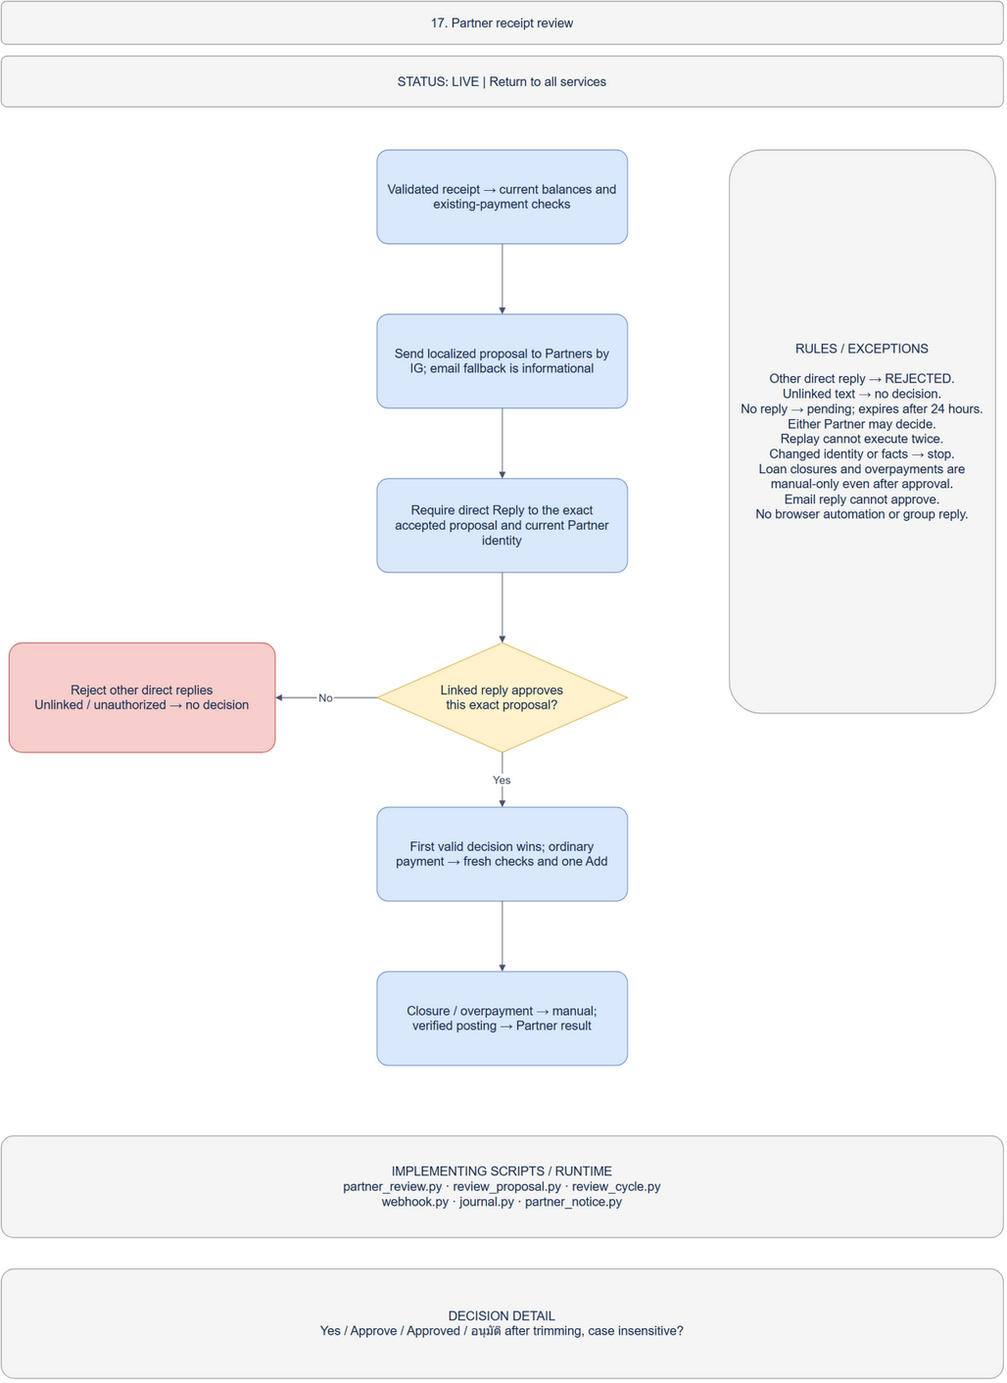
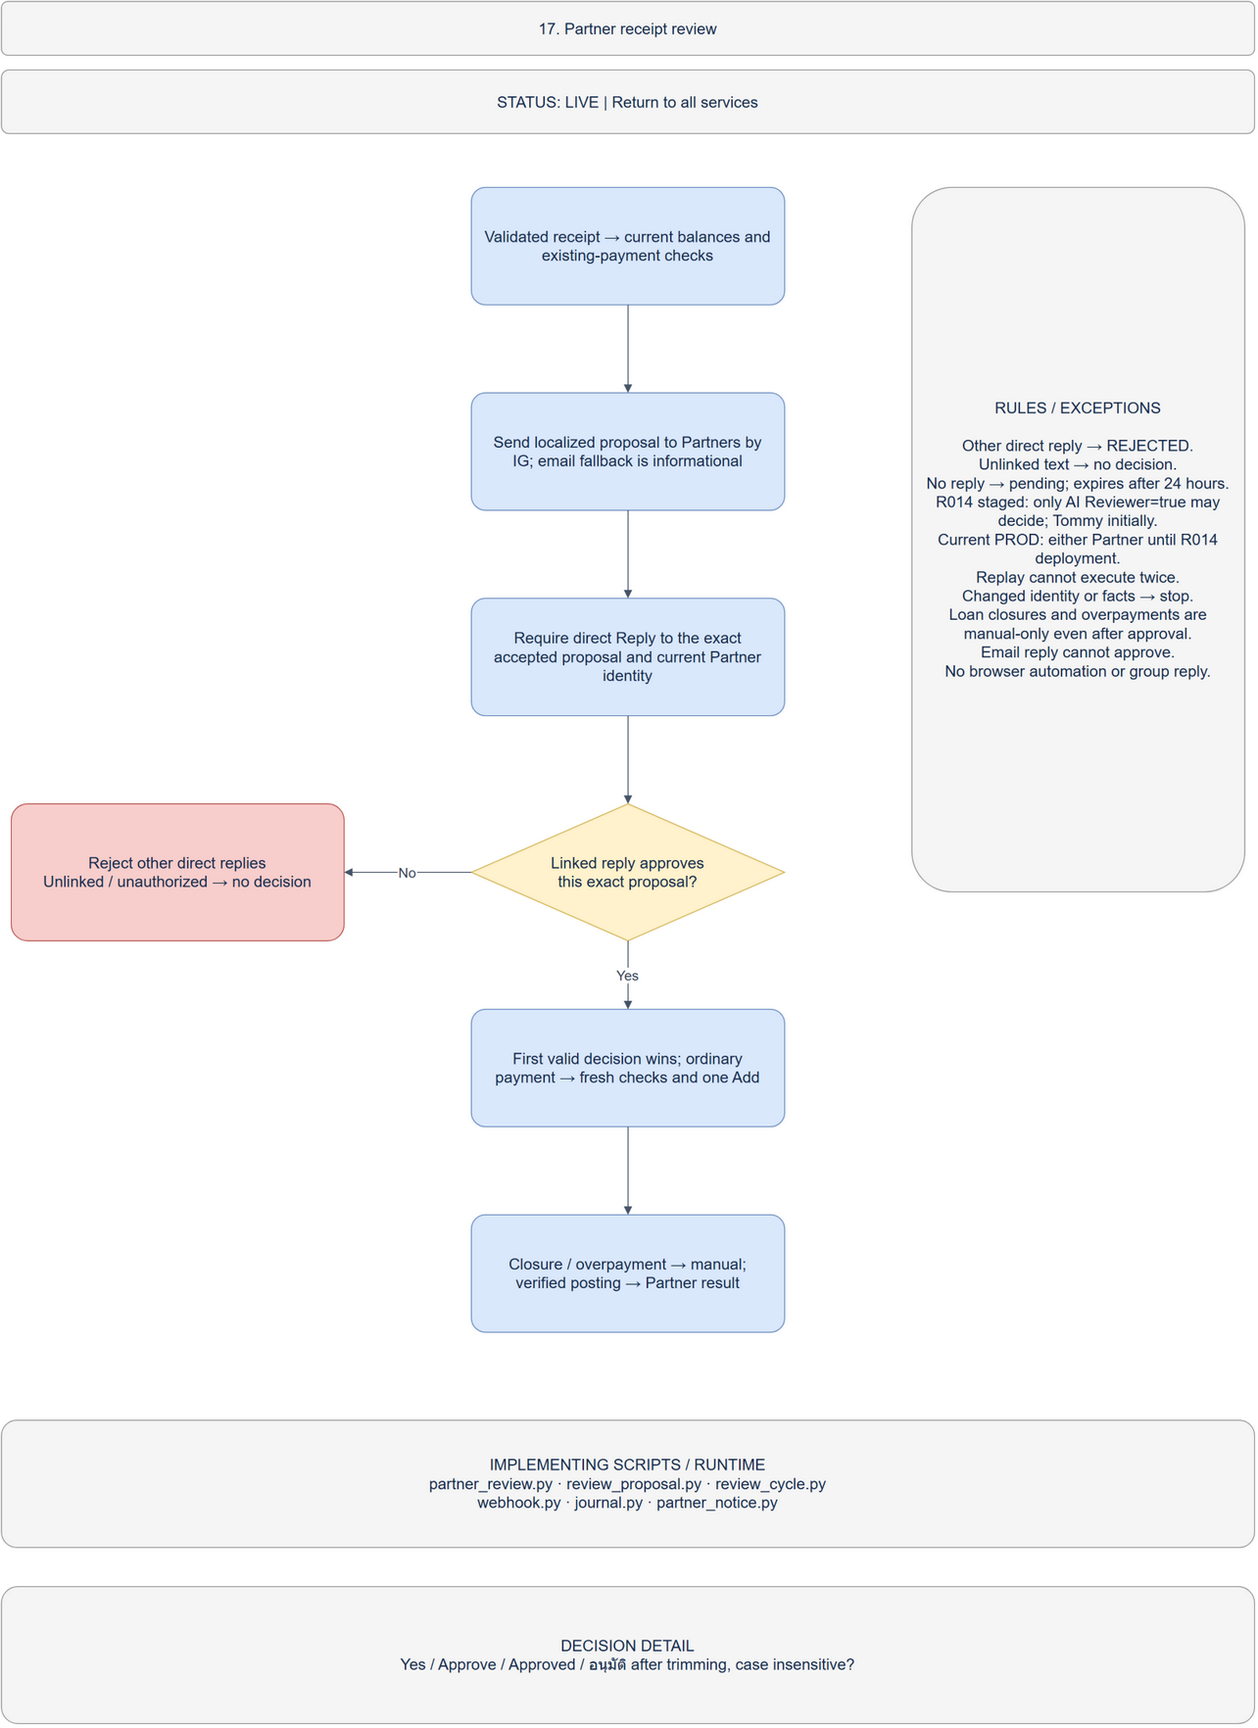
R014 separate AI reviewer authority from Partner notifications

diff --git a/src/mw_integration_agent/review_cycle.py b/src/mw_integration_agent/review_cycle.py
@@ -14,6 +14,11 @@ from .review_execution import add_payment,readback
 from .cash_statement import read_query
 
 
+def reviewer_partners(live):
+    """Role selection is independent of notification/IG delivery preferences."""
+    return [p for p in live['partners'] if p['id'] in live.get('reviewer_ids',[])]
+
+
 def cycle(config,journal,identity_reader):
     root=Path(config['state_directory']);db=journal.db;reviews=ReviewStore(db)
     notices=NoticeJournal(root/'partner-notices.db')
@@ -28,8 +33,12 @@ def cycle(config,journal,identity_reader):
                 if b['id']!=result['borrower']['id']:raise ReceiptInvalid('BORROWER_CHANGED')
                 check(config,result['receipt'],b)
                 proposal=plan(result['receipt'],b,facts(config,b['id']))
+                recipients=reviewer_partners(live)
+                if not recipients:
+                    journal.mark(job['id'],'VALIDATED','NO_AI_REVIEWER')
+                    continue
                 key=reviews.reserve(job['id'],proposal)
-                for p in live['partners']:
+                for p in recipients:
                     subject,body=request_text(proposal,p['language'])
                     if job['detail']=='OWNER_REQUESTED_RECONSIDERATION':
                         body=('คำขอแก้ไข — ใช้แทนคำขอเดิม\n' if p['language']=='ไทย' else 'Corrected request — replaces the earlier request\n')+body
@@ -54,12 +63,16 @@ def cycle(config,journal,identity_reader):
             live=masters(config)
             try:identity=identity_reader(config,event['sender_id'])
             except ConfigurationError:continue
-            reviews.decide(event,dict(notice),live['partners'],identity)
+            reviews.decide(event,dict(notice),live['partners'],identity,reviewer_ids=live.get('reviewer_ids',[]))
         for review in db.execute("SELECT * FROM partner_reviews WHERE state IN ('APPROVED','POSTING','UNKNOWN')").fetchall():
             proposal=json.loads(review['proposal']);key='igr:'+review['id'][:48]
             if review['state'] in ('POSTING','UNKNOWN'):
                 if readback(config,key,proposal):
                     with db:db.execute("UPDATE partner_reviews SET state='POSTED',payment_id=? WHERE id=?",(key,review['id']))
+                continue
+            live=masters(config)
+            if review['deciding_partner'] not in live.get('reviewer_ids',[]):
+                with db:db.execute("UPDATE partner_reviews SET state='STALE',detail='APPROVING_REVIEWER_REMOVED' WHERE id=?",(review['id'],))
                 continue
             if proposal['action']!='Lump Sum':
                 with db:db.execute("UPDATE partner_reviews SET state='MANUAL_REQUIRED' WHERE id=?",(review['id'],))
@@ -67,7 +80,7 @@ def cycle(config,journal,identity_reader):
             if config.get('partner_review_execution_enabled') is not True:continue
             live=masters(config)
             try:
-                matches=[p for p in live['partners'] if p['id']==review['deciding_partner'] and p['enabled'] is True]
+                matches=[p for p in reviewer_partners(live) if p['id']==review['deciding_partner'] and p['enabled'] is True]
                 if len(matches)!=1:raise ReceiptInvalid('APPROVING_PARTNER_CHANGED')
                 sent=notices.db.execute("SELECT partner FROM partner_notices WHERE event_key=? AND partner_id=? AND ig_status='ACCEPTED'",('review:'+review['id'],review['deciding_partner'])).fetchone()
                 if not sent or json.loads(sent[0])!=matches[0]:raise ReceiptInvalid('APPROVING_PARTNER_CHANGED')
@@ -107,7 +120,11 @@ def cycle(config,journal,identity_reader):
                 notices.reserve('review-result:'+review['id']+':'+review['state'],p,subject,body)
         for notice in notices.due():
             if not notice['event_key'].startswith(('review:','review-result:')):continue
+            live=masters(config)
             if notice['event_key'].startswith('review:'):
+                if notice['partner_id'] not in live.get('reviewer_ids',[]):
+                    with notices.db:notices.db.execute("UPDATE partner_notices SET ig_status='REVIEW',detail='NOT_AI_REVIEWER' WHERE id=?",(notice['id'],))
+                    continue
                 row=db.execute('SELECT * FROM partner_reviews WHERE id=?',(notice['event_key'][7:],)).fetchone()
                 if not row or row['state']!='PENDING':
                     with notices.db:notices.db.execute("UPDATE partner_notices SET ig_status='REVIEW' WHERE id=?",(notice['id'],))
@@ -119,6 +136,6 @@ def cycle(config,journal,identity_reader):
                 except ReceiptInvalid as exc:
                     with db:db.execute("UPDATE partner_reviews SET state='STALE',detail=? WHERE id=?",(str(exc),row['id']))
                     continue
-            notices.dispatch(notice,config,masters(config)['partners'])
+            notices.dispatch(notice,config,live['partners'])
         return {'reviews':[dict(r) for r in db.execute('SELECT state,count(*) count FROM partner_reviews GROUP BY state')]}
     finally:notices.close()

diff --git a/tests/test_review_cycle.py b/tests/test_review_cycle.py
@@ -25,11 +25,11 @@ class CycleTests(unittest.TestCase):
         notices=NoticeJournal(self.root/'partner-notices.db');n=notices.reserve('review:'+self.key,self.p,'subject','body')
         notices.db.execute("UPDATE partner_notices SET ig_status='ACCEPTED',message_id='sent',recipient_id='456' WHERE id=?",(n,));notices.db.commit();notices.close()
         self.patches=[]
-        for target,kwargs in [('masters',{'return_value':{'partners':[self.p],'borrowers':[self.b],'accounts':[{'id':'a','active':True}]}}),
+        for target,kwargs in [('masters',{'return_value':{'partners':[self.p],'reviewer_ids':['p'],'borrowers':[self.b],'accounts':[{'id':'a','active':True}]}}),
               ('check',{}),('facts',{'return_value':{}}),('plan',{'return_value':self.proposal}),('read_query',{'return_value':['actor@example.invalid']}),
               ('add_payment',{}),('readback',{'return_value':True})]:
             p=patch('mw_integration_agent.review_cycle.'+target,**kwargs);setattr(self,target,p.start());self.addCleanup(p.stop)
-        p=patch('mw_integration_agent.partner_notice.NoticeJournal.dispatch');p.start();self.addCleanup(p.stop)
+        p=patch('mw_integration_agent.partner_notice.NoticeJournal.dispatch');self.dispatch=p.start();self.addCleanup(p.stop)
     def run_cycle(self):return cycle(self.config,self.j,lambda *_:{'id':'123','username':'borrower'})
     def test_approved_posts_once_then_result(self):
         self.run_cycle();self.run_cycle();self.assertEqual(self.add_payment.call_count,1)
@@ -47,6 +47,39 @@ class CycleTests(unittest.TestCase):
         self.assertEqual(self.j.db.execute('SELECT state FROM partner_reviews').fetchone()[0],'MANUAL_REQUIRED')
     def test_disabled_execution_no_write(self):
         self.config['partner_review_execution_enabled']=False;self.run_cycle();self.add_payment.assert_not_called()
+    def test_reviewer_removed_after_approval_no_write(self):
+        self.masters.return_value['reviewer_ids']=[]
+        self.run_cycle();self.add_payment.assert_not_called()
+        self.assertEqual(self.j.db.execute('SELECT state,detail FROM partner_reviews').fetchone()[:],('STALE','APPROVING_REVIEWER_REMOVED'))
+    def validated_job(self):
+        import time
+        self.j.db.execute("UPDATE partner_reviews SET state='SUPERSEDED',job_id='old'")
+        self.j.db.execute("UPDATE receipt_jobs SET id='new-job',status='VALIDATED',created_at=?,result=?",(time.time(),json.dumps({'receipt':self.proposal['receipt'],'borrower':self.b})))
+        self.j.db.commit()
+    def test_new_requests_only_to_reviewer(self):
+        self.validated_job()
+        self.masters.return_value['partners'].append(dict(self.p,id='other',username='other'))
+        self.run_cycle()
+        notices=NoticeJournal(self.root/'partner-notices.db')
+        try:self.assertEqual({r[0] for r in notices.db.execute("SELECT partner_id FROM partner_notices WHERE event_key LIKE 'review:%'")},{'p'})
+        finally:notices.close()
+    def test_no_reviewer_keeps_validated_job_waiting(self):
+        self.validated_job();self.masters.return_value['reviewer_ids']=[]
+        self.run_cycle()
+        self.assertEqual(self.j.db.execute('SELECT status,detail FROM receipt_jobs').fetchone()[:],('VALIDATED','NO_AI_REVIEWER'))
+        self.add_payment.assert_not_called()
+    def test_unsent_request_to_removed_reviewer_is_blocked(self):
+        self.j.db.execute("UPDATE partner_reviews SET state='PENDING'");self.j.db.commit()
+        notices=NoticeJournal(self.root/'partner-notices.db')
+        notices.db.execute("UPDATE partner_notices SET ig_status='PENDING'");notices.db.commit();notices.close()
+        self.masters.return_value['reviewer_ids']=[]
+        self.run_cycle();self.dispatch.assert_not_called()
+    def test_posted_results_still_go_to_all_partners(self):
+        self.masters.return_value['partners'].append(dict(self.p,id='other',username='other'))
+        self.run_cycle()
+        notices=NoticeJournal(self.root/'partner-notices.db')
+        try:self.assertEqual({r[0] for r in notices.db.execute("SELECT partner_id FROM partner_notices WHERE event_key LIKE 'review-result:%'")},{'p','other'})
+        finally:notices.close()
     def test_preexisting_ingress_schema_migrates_before_read(self):
         import sqlite3
         from contextlib import closing

diff --git a/tests/test_partner_review.py b/tests/test_partner_review.py
@@ -12,7 +12,7 @@ class ReviewTests(unittest.TestCase):
         self.notice={'ig_status':'ACCEPTED','event_key':'review:'+self.key,'message_id':'out','recipient_id':'123','partner_id':'p','partner':json.dumps(self.p)}
         self.event={'reply_to':'out','sender_id':'123','message_id':'in','event_timestamp':110,'text':'Approve'}
         self.identity={'id':'123','username':'partner'}
-    def decide(self,event=None,notice=None):return self.store.decide(event or self.event,notice or self.notice,[self.p],self.identity,120)
+    def decide(self,event=None,notice=None):return self.store.decide(event or self.event,notice or self.notice,[self.p],self.identity,120,reviewer_ids=['p'])
     def test_linked_approve_and_replay(self):
         self.assertEqual(self.decide(),'APPROVED');self.assertEqual(self.decide(),'APPROVED')
         self.assertEqual(self.decide(dict(self.event,message_id='in2',text='Reject')),'ALREADY_DECIDED')
@@ -26,7 +26,21 @@ class ReviewTests(unittest.TestCase):
         self.p['enabled']=False;self.assertEqual(self.decide(),'UNAUTHORIZED')
     def test_expired_and_no_reply(self):
         self.assertEqual(self.db.execute('SELECT state FROM partner_reviews').fetchone()[0],'PENDING')
-        self.assertEqual(self.store.decide(self.event,self.notice,[self.p],self.identity,100000),'EXPIRED')
+        self.assertEqual(self.store.decide(self.event,self.notice,[self.p],self.identity,100000,reviewer_ids=['p']),'EXPIRED')
+    def test_nonreviewer_cannot_approve_or_reject(self):
+        for reply in ('yes','reject'):
+            event=dict(self.event,text=reply)
+            self.assertEqual(self.store.decide(event,self.notice,[self.p],self.identity,120,reviewer_ids=['someone-else']),'NOT_REVIEWER')
+        self.assertEqual(self.db.execute('SELECT state FROM partner_reviews').fetchone()[0],'PENDING')
+    def test_missing_reviewer_role_fails_closed(self):
+        self.assertEqual(self.store.decide(self.event,self.notice,[self.p],self.identity,120),'NOT_REVIEWER')
+    def test_reviewer_selection_keeps_notification_partners(self):
+        from mw_integration_agent.review_cycle import reviewer_partners
+        other=dict(self.p,id='other',enabled=False)
+        live={'partners':[self.p,other],'reviewer_ids':['other']}
+        self.assertEqual(reviewer_partners(live),[other])
+        self.assertEqual(live['partners'],[self.p,other])
+        self.assertEqual(reviewer_partners({'partners':[self.p]}),[])
     def test_thai_approval(self):
         self.assertEqual(self.decide(dict(self.event,text='อนุมัติ')),'APPROVED')
     def test_case_insensitive_yes_and_approved(self):

diff --git a/scripts/generate-business-process.py b/scripts/generate-business-process.py
@@ -145,7 +145,7 @@ pages.append(('review','Partner receipt review','LIVE',[
  'Yes / Approve / Approved / อนุมัติ after trimming, case insensitive?',
  'First valid decision wins; ordinary payment → fresh checks and one Add',
  'Closure / overpayment → manual; verified posting → Partner result'],
- 'Other direct reply → REJECTED.\nUnlinked text → no decision.\nNo reply → pending; expires after 24 hours.\nEither Partner may decide.\nReplay cannot execute twice.\nChanged identity or facts → stop.\nLoan closures and overpayments are manual-only even after approval.\nEmail reply cannot approve.\nNo browser automation or group reply.',
+ 'Other direct reply → REJECTED.\nUnlinked text → no decision.\nNo reply → pending; expires after 24 hours.\nR014 staged: only AI Reviewer=true may decide; Tommy initially.\nCurrent PROD: either Partner until R014 deployment.\nReplay cannot execute twice.\nChanged identity or facts → stop.\nLoan closures and overpayments are manual-only even after approval.\nEmail reply cannot approve.\nNo browser automation or group reply.',
  'partner_review.py · review_proposal.py · review_cycle.py\nwebhook.py · journal.py · partner_notice.py'))
 
 r=page('agent-overview','01 · Agent overview',1460)

diff --git a/src/mw_integration_agent/partner_review.py b/src/mw_integration_agent/partner_review.py
@@ -30,7 +30,7 @@ class ReviewStore:
                             (key,job_id,value,now,now+86400))
         return key
 
-    def decide(self,event,notice,partners,identity,now=None):
+    def decide(self,event,notice,partners,identity,now=None,*,reviewer_ids=()):
         now=time.time() if now is None else now
         # Correlation requires our confirmed outbound message and its exact recipient.
         if not notice or notice['ig_status']!='ACCEPTED' or not event.get('reply_to'):
@@ -42,6 +42,7 @@ class ReviewStore:
         partner=[p for p in partners if p['id']==notice['partner_id']]
         if len(partner)!=1:return 'UNAUTHORIZED'
         p=partner[0]
+        if p['id'] not in reviewer_ids:return 'NOT_REVIEWER'
         if p['enabled'] is not True or p['language'] not in ('English','ไทย'):return 'UNAUTHORIZED'
         if json.loads(notice['partner'])!=p:return 'PARTNER_CHANGED'
         name=username(p['username'])

diff --git a/src/mw_integration_agent/receipt_master.py b/src/mw_integration_agent/receipt_master.py
@@ -13,6 +13,8 @@ def masters(config):
         "Account Number" number,"Alternative Account Number" alternative FROM public."Cash Accounts") t),
       'posted_references',(SELECT coalesce(json_agg(DISTINCT upper(regexp_replace("Bank Reference",'[[:space:]-]','','g'))),'[]'::json)
         FROM public."Payments" WHERE nullif(trim("Bank Reference"),'') IS NOT NULL),
+      'reviewer_ids',(SELECT coalesce(json_agg("Row ID"),'[]'::json)
+        FROM public."Partners" WHERE "AI Reviewer" IS TRUE),
       'partners',(SELECT coalesce(json_agg(t),'[]'::json) FROM (
         SELECT "Row ID" id,"Email" email,"Language Preference" language,
         "Instagram Username" username,"IG Integration Enabled" enabled FROM public."Partners") t));''')

diff --git a/tests/test_instagram_transport.py b/tests/test_instagram_transport.py
@@ -32,7 +32,7 @@ class InstagramTransportTests(unittest.TestCase):
         signature = "sha256=" + hmac.new(b"secret", raw, hashlib.sha256).hexdigest()
         self.assertTrue(verify_signature(raw, signature, "secret"))
         self.assertFalse(verify_signature(raw, "sha256=wrong", "secret"))
-        messages = extract_messages(payload, "123", now)
+        messages = extract_messages(payload, "123", now + 1)
         self.assertEqual(len(messages), 1)
         self.assertEqual(messages[0]["message_id"], "m1")
         self.assertEqual(messages[0]["sender_id"], "456")

diff --git a/docs/PARTNER_REVIEW.md b/docs/PARTNER_REVIEW.md
@@ -2,7 +2,9 @@
 
 Owner authority: 21 September 2026. Use the same queue for group API polling and signed webhook receipts. Do not replay historical receipts when enabling review. Valid new receipts are checked against manually recorded Payments, then proposed with borrower, amount, receipt date/time to the minute, receiving account and proposed action. Proposals retain current loan/charge facts; changed facts invalidate approval.
 
-Each Partner receives the request in their current preferred language, Instagram first. A signed inbound message must directly reply to that exact accepted outbound message ID, from its recorded recipient, with fresh unique Partner identity and IG integration enabled. `yes`, `approve`, `approved`, `อนุมัติ` approve after trimming and case folding. Any other direct reply rejects. Unlinked messages cannot decide anything. First valid decision from either Partner wins; repeated replies cannot execute twice. No reply remains pending for up to 24 hours, then expires. Email fallback informs only; email replies are not an approval channel.
+R014 staged change (not yet deployed): only Partners with `AI Reviewer = true` receive requests or decide them. Tommy is the initial reviewer; new Partners default false. The flag belongs to Partners, not Borrowers. Daily summaries, general IG integration and payment-result notices keep their existing Partner routing. An empty reviewer set leaves the receipt validated and waiting, with no request or payment. V32 must reach production before this runtime is installed; the updater checks the column before stopping services or changing the installed package. Current production still uses the prior all-Partner review policy until the coordinated R014 deployment.
+
+Each reviewer receives the request in their current preferred language, Instagram first. A signed inbound message must directly reply to that exact accepted outbound message ID, from its recorded recipient, with fresh unique Partner identity, current AI Reviewer role and IG integration enabled. `yes`, `approve`, `approved`, `อนุมัติ` approve after trimming and case folding. Any other direct reply from an authorized reviewer rejects. Unlinked or non-reviewer messages cannot decide anything. First valid reviewer decision wins; repeated replies cannot execute twice. No reply remains pending for up to 24 hours, then expires. Email fallback informs only; email replies are not an approval channel. The role is checked again before request dispatch and before executing an approved payment; removal blocks unsent requests and stale approvals. Existing accepted messages to a continuing reviewer remain correlated because role membership is read separately from immutable delivery snapshots. Unknown prior posting outcomes remain readback-only even after role removal.
 
 All potential loan closures and amounts above the current latest unpaid charge are manual handling, as explicitly requested. Approval of those requests records MANUAL_REQUIRED and informs Partners; it never invokes Loan Close or records an overpayment. No database migration was requested or performed. If multiple loans/charges make a proposal uncertain, hold for manual review.
 

diff --git a/Change Logs/CHANGE_NOTES_R014_AI_REVIEWER_2026-09-21.md b/Change Logs/CHANGE_NOTES_R014_AI_REVIEWER_2026-09-21.md
@@ -1,0 +1,13 @@
+# R014 — AI Reviewer role
+
+Owner clarified `AI Reviewer` belongs to Partners and initially selects Tommy. AppSheet R014/V32 owns the false-default boolean and initial assignment; this repository consumes that role independently from existing notification identities. Baseline `b0b8c36c0a211bedf1421df1a57695b7e200f3c1`, clean before edits.
+
+Only reviewers receive proposals and may approve or reject signed direct replies. Role membership is re-read at dispatch, decision and execution. No reviewer leaves the validated receipt waiting. Removing an approving reviewer makes an unposted approval stale. Already uncertain posting outcomes continue readback-only. Partner result notices and daily summaries retain their recipients. Manual closure/overpayment policy is unchanged. Separate reviewer IDs preserve existing immutable Partner delivery snapshots and accepted-message correlation.
+
+Changed receipt_master, partner_review, review_cycle, related tests and deployment prerequisite. `update-reviewed-runtime.sh` refuses installation before the non-null boolean exists. This is a coordinated R014 dependency, not a production deployment. No live financial write, notification, service activation or cutoff reset performed.
+
+Local suite: 102 tests passed, two existing platform skips. Added non-reviewer approval/rejection denial, absent-role denial, reviewer-only dispatch, removed-reviewer execution block, no-reviewer waiting and unchanged all-Partner result tests. Corrected an existing webhook test's floating-point boundary fixture to allow one second between receipt and processing, without changing production filtering. SQL and app evidence live in AppSheet-Loan-Project's R014 report.
+
+Rollback: before production activation retain the current package/config and integrity-checked journals via the reviewed updater. Revert agent code only with explicit awareness that the old policy allowed all Partners to decide; preferably pause review/execution while reconciling a rollback. Keep the additive column and all accepted-message/payment journals. Pending accepted requests remain valid only for current reviewers. Reconsider pending requests explicitly if a newly selected reviewer needs a replacement; never copy an old approval.
+
+Status: implemented and tested locally, awaiting R014 production promotion and coordinated VM deployment. A real reviewer direct-reply test remains a production activation check; no synthetic payment will be posted.

diff --git a/SERVICE_CATALOGUE.md b/SERVICE_CATALOGUE.md
@@ -2,6 +2,8 @@
 
 Revision 11 — linked Partner receipt reviews, 21 September 2026. The machine-readable manifest is authoritative at runtime and is validated by `mw-integration-agent check`.
 
+R014 staged refinement: Partners.AI Reviewer separates payment review authority from Partner notification/IG preferences. Tommy is initially selected in DEV V32. Source code filters requests, replies and execution by the current reviewer role. This refinement is not deployed; production still uses the previously deployed all-Partner policy. Deploy only after the R014 database prerequisite. Existing service enablement and cutoffs are unchanged.
+
 Signed Instagram webhook ingress and explicit Instagram delivery are authorized and implemented. Ingress verifies Meta signatures and stores deduplicated messages and image references before acknowledgement. The owner authorized receipt-only processing on 21 September after promoting R011 account aliases. Receipt processing has its own switch and cutoff; generic processing and writes remain disabled; scoped partner-approved ordinary receipt posting is separately enabled.
 
 | Service | State | Migration intent |
